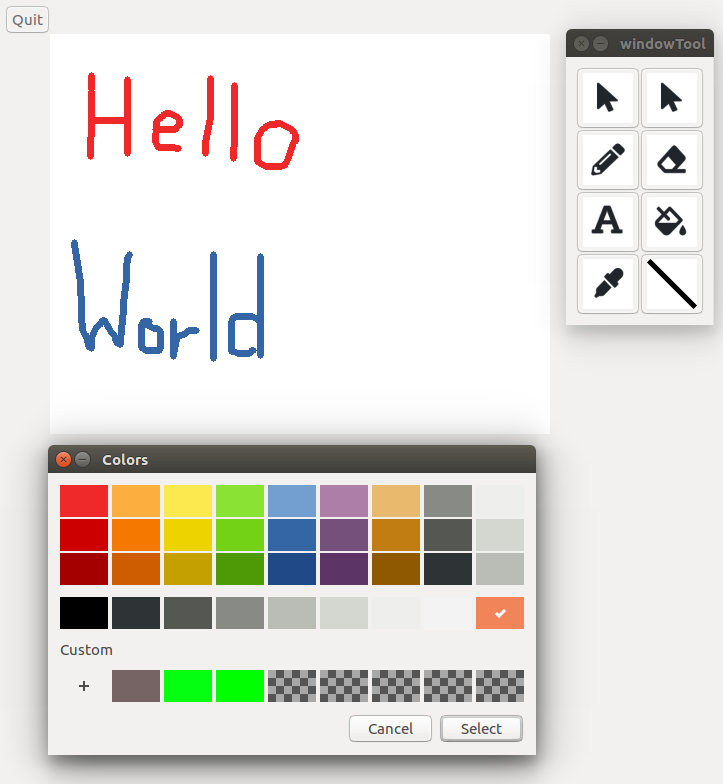
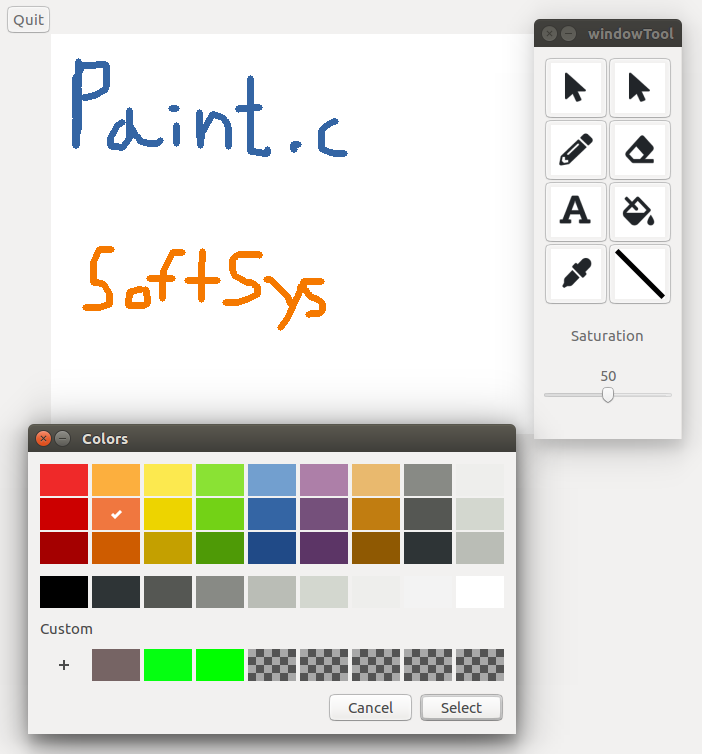
comment and clean

diff --git a/paint.c b/paint.c
@@ -83,6 +83,7 @@ char* decimal_to_hex(int n) {
 	return hex;
 }
 
+
 int check_bounds(struct Image image, int x, int y) {
 	if ((x >= 0 && x < image.width) && (y >= 0 && y < image.height)) {
 		return 1;
@@ -91,8 +92,18 @@ int check_bounds(struct Image image, int x, int y) {
 	}
 }
 
-/* Updates one pixel in the image with the values passed */
-// NOTE: Assumes 4 color channel values
+/* 
+* Updates one pixel in the image with the values passed 
+
+* image - image structure to perform updates on
+* x - x location of pixel in image
+* y - y location of pixel in image
+* r - red value of pixel to be rendered
+* g - green value of pixel to be rendered
+* b - blue value of pixel to be rendered
+* a - alpha value of pixel to be rendered
+*/
+
 void update_pixel(struct Image image, int x, int y, int r, int g, int b, int a) {
 	if (check_bounds(image, x, y)) {
 
@@ -122,10 +133,28 @@ void update_pixel(struct Image image, int x, int y, int r, int g, int b, int a) 
 	}
 }
 
+/*
+* Return distance between two pixels
+* 
+* image - image structure to perform updates on
+* x1 - x coordinate of the first point
+* y1 - y coordinate of the first point
+* x2 - x coordinate of the second point
+* y2 - y coordinate of the second point
+*/
 double get_distance(int x1, int y1, int x2, int y2) {
 	return sqrt((x2 - x1)*(x2 - x1) + (y2 - y1)*(y2 - y1));
 }
 
+/*
+* Draw a line between two points on the specificed image
+*
+* image - image structure to perform updates on
+* x1 - x coordinate of the first point
+* y1 - y coordinate of the first point
+* x2 - x coordinate of the second point
+* y2 - y coordinate of the second point
+*/
 void draw_line(struct Image image, int x1, int y1, int x2, int y2) {
 	double distance = get_distance(x1, y1, x2, y2);
 	int i;
@@ -343,7 +372,12 @@ void save_pdc(struct Image image, char *file_name) {
 	fclose(output_file);
 }
 
-/* Create and allocate memory for a filled image of the specified width and height */
+/*
+* Create and allocate memory for a filled image of the specified width and height 
+*
+* width - width of image in pixels
+* height - height of image in pixels
+*/
 struct Image initialize_image(int width, int height) {
 	int i, j, k, l;
 	struct Image image;
@@ -374,7 +408,18 @@ struct Image initialize_image(int width, int height) {
 	return image;
 }
 
-/* Draw a single RGBA pixel on the canvas at position x, y */
+/* 
+* Draw a single RGBA pixel on the canvas at position x, y 
+*
+*
+* GTK cairo array to store color data
+* x - x location of pixel in image
+* y - y location of pixel in image
+* r - red value of pixel to be rendered
+* g - green value of pixel to be rendered
+* b - blue value of pixel to be rendered
+* a - alpha value of pixel to be rendered
+*/
 gboolean render_pixel(GtkWidget* canvas, cairo_t* cr, int x, int y, int r, int g, int b, int a) {
 
 	// Convert color values from [0, 255] to [0, 1]
@@ -393,7 +438,12 @@ gboolean render_pixel(GtkWidget* canvas, cairo_t* cr, int x, int y, int r, int g
 
 }
 
-/* Draws the pixels of the image onto the window to display the image. */
+/* 
+* Draws the pixels of the image onto the window to display the image. 
+*
+* GTK cairo array to store color data
+* data - values passed as gpointers, standard GTK function parameter
+*/
 gboolean update_canvas(GtkWidget* canvas, cairo_t *cr, gpointer data) {
 
 	// Initialize variables for height, width, and color
@@ -423,13 +473,22 @@ gboolean update_canvas(GtkWidget* canvas, cairo_t *cr, gpointer data) {
 
 }
 
+
+/*
+* End all GTK related functions for a given application
+*/
+
 void kill_app(GtkApplication *app, gpointer user_data){
 	g_application_quit (app);
 }
 
 
-//TODO Make the offset not wrap, actually make sense. Do research into how actual
-//Saturation effectors work
+/*
+* Change the saturation of every pixel in the image
+*
+*
+* TODO Make the offset not wrap, actually make sense. Do research into how actual saturation algorithims work
+*/
 void edit_saturation(gdouble pos){
 	int i,j;
 	double r,g,b,a;
@@ -472,6 +531,10 @@ void edit_saturation(gdouble pos){
 
 }
 
+/*
+* Callback function to be performed upon movement of the saturation slider
+*
+*/
 void scale_moved (GtkRange *range, gpointer  user_data){
    GtkWidget *mylabel = user_data;
    gdouble pos = gtk_range_get_value (range);
@@ -479,6 +542,12 @@ void scale_moved (GtkRange *range, gpointer  user_data){
    g_print("%f\n",pos);
 }
 
+/*
+* Begin the application window
+*
+* Like other GTK functions, app is the application running
+* user_data is pointers to values to be used in the corresponding functions
+*/
 void activate(GtkApplication *app, gpointer user_data) {
 
 	GtkWidget *windowTool;
@@ -605,12 +674,13 @@ void activate(GtkApplication *app, gpointer user_data) {
 	image = gtk_image_new_from_pixbuf(pixbuf);
 	gtk_button_set_image (GTK_BUTTON (button), image);
 
-	//Saturation Tool
+	//Saturation Slider
 	adjustment = gtk_adjustment_new (50, 0, 100, 5, 10, 0);
-	label = gtk_label_new ("");
+	label = gtk_label_new ("Saturation");
 	scale = gtk_scale_new (GTK_ORIENTATION_HORIZONTAL, adjustment);
   	gtk_scale_set_digits (GTK_SCALE (scale), 0);
-  	gtk_grid_attach (GTK_GRID (grid), scale, 0, 4, 2, 1);
+  	gtk_grid_attach (GTK_GRID (grid), scale, 0, 5, 2, 1);
+  	 gtk_grid_attach (GTK_GRID (grid), label, 0, 4, 2, 1);
   	gtk_widget_set_hexpand (scale, TRUE);
   	gtk_widget_set_valign (scale, GTK_ALIGN_START);
   	g_signal_connect (scale,
